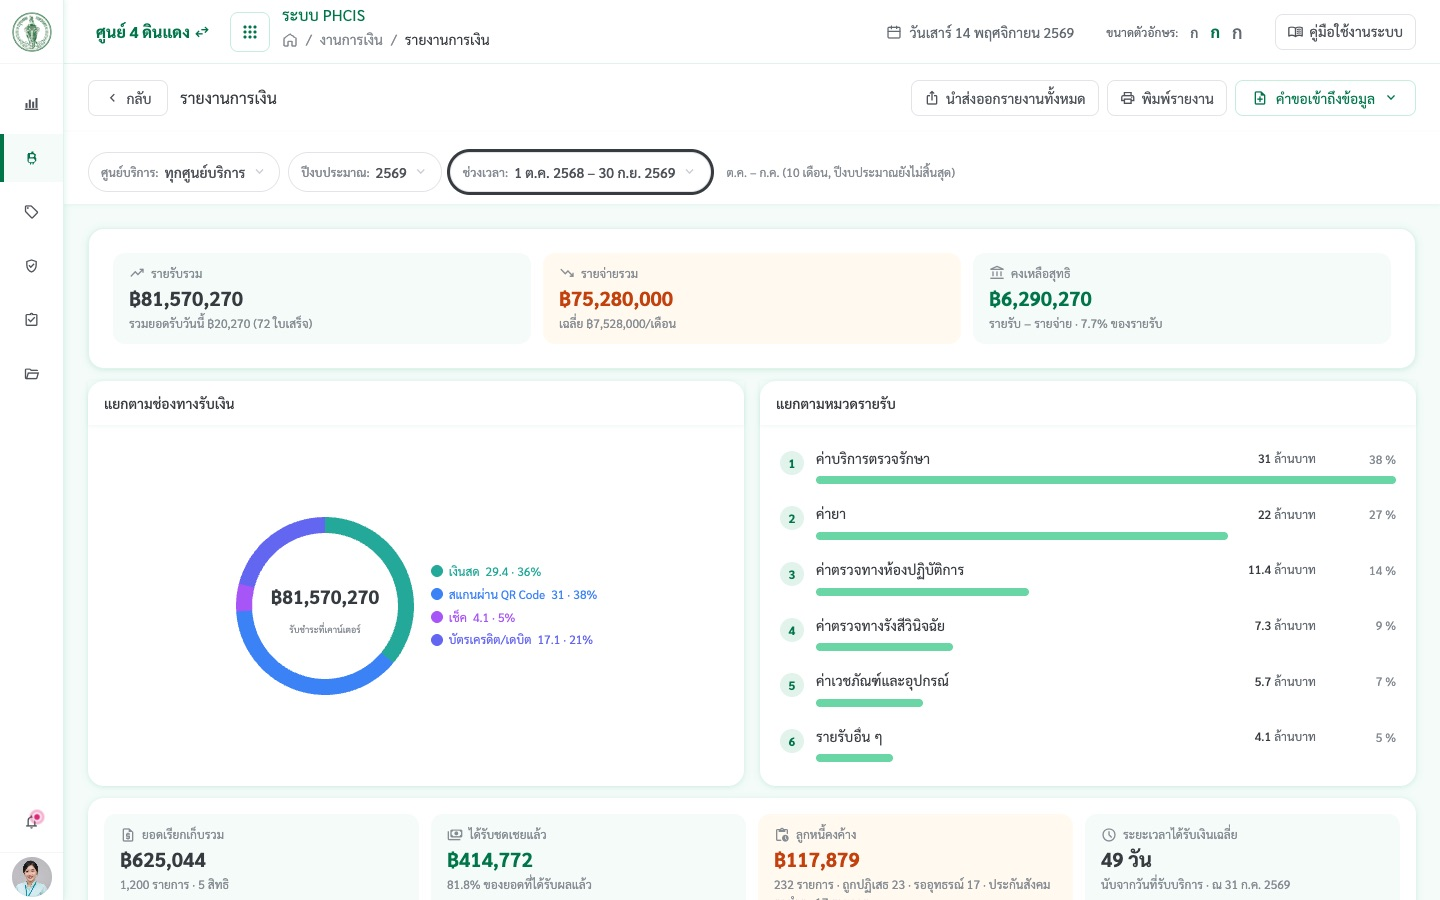
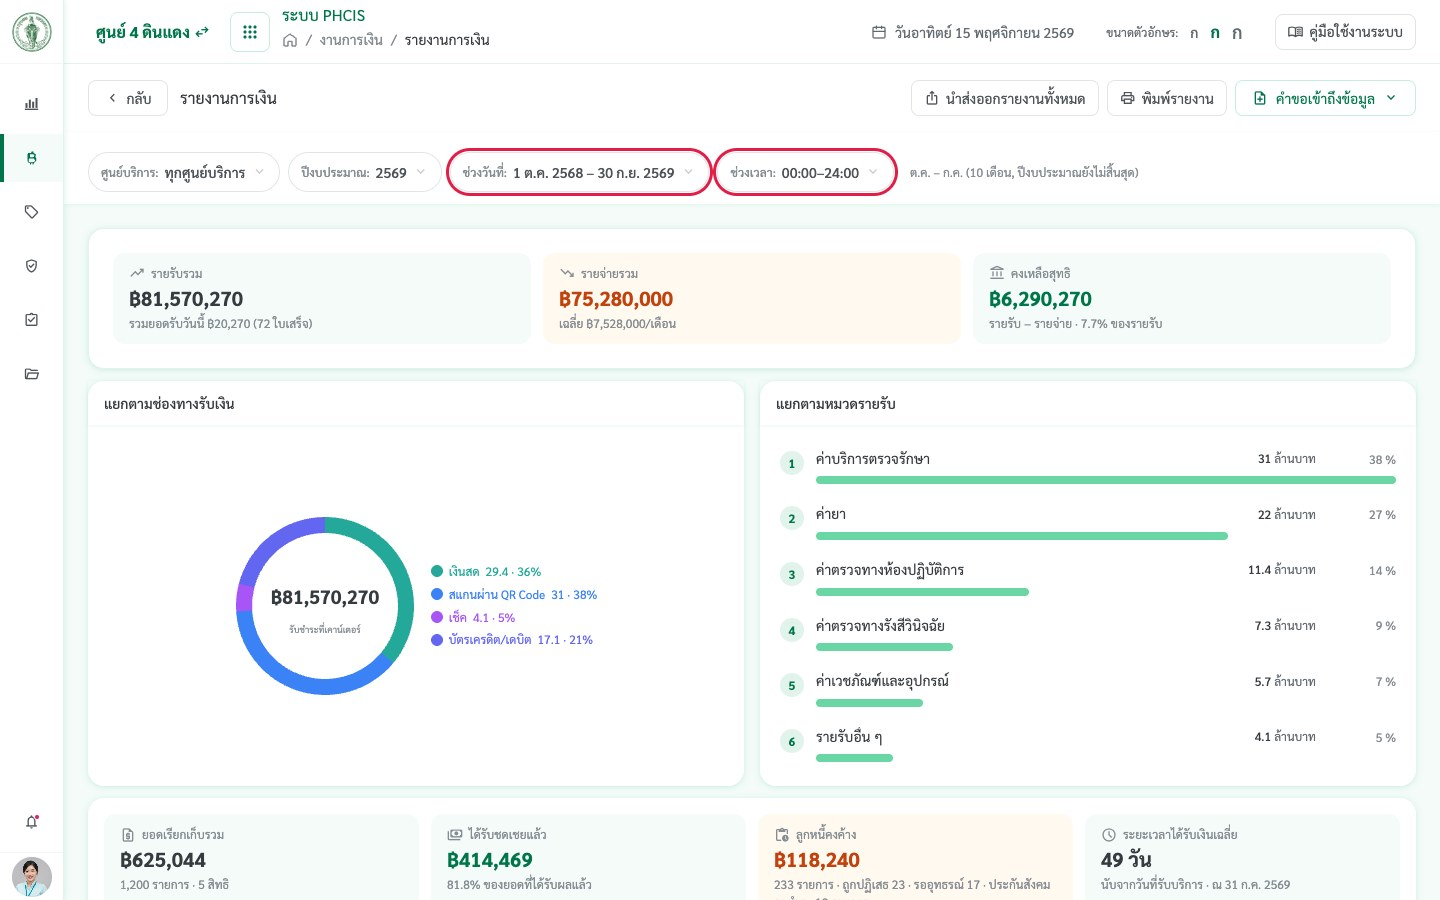
การเงิน ข้อ 13: ภาพใหม่ ชิป ช่วงวันที่ + ช่วงเวลา วงแดง · ข้อความตามที่แก้ 15 พ.ย. 69

diff --git a/tor-k9-addiction.html b/tor-k9-addiction.html
@@ -110,7 +110,7 @@
   <div class="card" id="fin-10"><div class="head"><div><h2>ข้อ 10 · ใบสรุปการนำฝากเงิน เลือกช่วงเวลา</h2><p class="sum">คอมเมนต์ลูกค้างานการเงิน 14 พ.ย. 2569</p></div><span class="chip nw c-green">แก้แล้ว · ทดสอบแล้ว</span></div><hr><dl class="kv"><dt>ระบบที่แก้</dt><dd>เว็บ PHCIS · การเงิน › พิมพ์ใบสรุปการนำฝาก</dd><dt>Kiosk (น้องดูแล)</dt><dd>—</dd></dl><hr><p class="gh">ข้อความลูกค้า</p><blockquote>ใบสรุปการนำฝากเงิน เพิ่มเลือกช่วงเวลา</blockquote><hr><p class="gh">แก้อะไร</p><p>ป๊อปอัปก่อนพิมพ์มี &quot;ตั้งแต่เวลา&quot; · &quot;ถึงเวลา&quot; (ค่าตั้งต้น 16:00 – 15:59) ต่อจากวันที่นำฝาก · &quot;รอบที่พิมพ์&quot; และหัวใบนำฝากแสดงวัน + เวลาตามที่เลือก</p><hr><p class="gh">ดูยังไง</p><ol class="steps"><li>เข้าระบบเป็น &quot;ฝ่ายการเงิน&quot; (เลือกบทบาทจากเมนูสลับบทบาท)</li><li>เมนู &quot;การเงิน&quot; (/finance) → &quot;พิมพ์ ▾&quot; → &quot;พิมพ์ใบสรุปการนำฝากเงิน&quot;</li><li>เลือกวันที่ + เวลา → &quot;พิมพ์&quot;</li></ol><hr><div class="shots"><figure><img src="tor-shots/finance-2569-11-14/c10a-deposit-time.jpg" alt="เลือกช่วงวันที่ + ช่วงเวลา" loading="lazy"><figcaption>เลือกช่วงวันที่ + ช่วงเวลา</figcaption></figure><figure><img src="tor-shots/finance-2569-11-14/c10b-deposit-print.jpg" alt="หัวใบนำฝากตามช่วงที่เลือก" loading="lazy"><figcaption>หัวใบนำฝากตามช่วงที่เลือก</figcaption></figure></div></div>
   <div class="card" id="fin-11"><div class="head"><div><h2>ข้อ 11 · รายการยาที่แพทย์สั่ง ลงชื่อแพทย์ + เลข ว.</h2><p class="sum">คอมเมนต์ลูกค้างานการเงิน 14 พ.ย. 2569</p></div><span class="chip nw c-orange">แก้แล้ว · ทดสอบแล้ว · เลข ว. เป็นข้อมูลตัวอย่าง</span></div><hr><dl class="kv"><dt>ระบบที่แก้</dt><dd>เว็บ PHCIS · การเงิน › พิมพ์ใบส่งเบิกประกันสังคม</dd><dt>Kiosk (น้องดูแล)</dt><dd>—</dd></dl><hr><p class="gh">ข้อความลูกค้า</p><blockquote>รายการยาที่แพทย์สั่ง ในรายงาน เปลี่ยนจากผู้รายงาน ให้ขึ้นชื่อแพทย์ที่สั่ง และให้มีเลข ว</blockquote><hr><p class="gh">แก้อะไร</p><p>ใบ &quot;รายการยาที่แพทย์สั่งจ่าย&quot; ลงชื่อ &quot;แพทย์ผู้สั่ง&quot; + ชื่อแพทย์ + &quot;เลขที่ใบอนุญาตประกอบวิชาชีพเวชกรรม ว.…&quot; แทน &quot;ผู้รายงาน&quot; · ช่อง &quot;แพทย์ผู้สั่ง&quot; บนหัวกระดาษมีชื่อแล้ว (เดิมว่าง) · เลข ว. รอทะเบียนบุคลากรจริง</p><hr><p class="gh">ดูยังไง</p><ol class="steps"><li>เข้าระบบเป็น &quot;ฝ่ายการเงิน&quot; (เลือกบทบาทจากเมนูสลับบทบาท)</li><li>เมนู &quot;การเงิน&quot; (/finance) → &quot;พิมพ์ ▾&quot; → &quot;พิมพ์ใบส่งเบิกประกันสังคม&quot;</li><li>เลือก &quot;ตากสิน&quot; → แถวแรกกด &quot;พิมพ์รายการยาที่แพทย์สั่งจ่าย&quot; (ตัวอย่าง HN 67-00006)</li></ol><hr><div class="shots"><figure><img src="tor-shots/finance-2569-11-14/c11-drug-list.jpg" alt="ชื่อแพทย์ผู้สั่ง + เลข ว." loading="lazy"><figcaption>ชื่อแพทย์ผู้สั่ง + เลข ว.</figcaption></figure></div></div>
   <div class="card" id="fin-12"><div class="head"><div><h2>ข้อ 12 · บันทึกรับเงินจากหน่วยงาน เพิ่ม 4 แหล่ง · บันทึกย้อนหลัง</h2><p class="sum">คอมเมนต์ลูกค้างานการเงิน 14 พ.ย. 2569</p></div><span class="chip nw c-green">แก้แล้ว · ทดสอบแล้ว</span></div><hr><dl class="kv"><dt>ระบบที่แก้</dt><dd>เว็บ PHCIS · การเงิน › REP / Statement</dd><dt>Kiosk (น้องดูแล)</dt><dd>—</dd></dl><hr><p class="gh">ข้อความลูกค้า</p><blockquote>เมนู REP/Statement เมนูย่อย บันทึกรับเงินจากหน่วยงาน เพิ่มประกันสังคม (สนพ) รับเงินจากหน่วยงานต้นสังกัด (เขต) รับเงินจาก E-Donation และรับเงินจากตู้บำรุง ให้บันทึกย้อนหลังได้</blockquote><hr><p class="gh">แก้อะไร</p><p>เมนูเพิ่ม &quot;รับเงินจากประกันสังคม (สนพ.)&quot; · &quot;รับเงินจากหน่วยงานต้นสังกัด (เขต)&quot; (เลือกลูกหนี้รายตัวได้หลายราย · กรองตามโรงพยาบาล/หน่วยงาน · ยอดเงินตั้งต้น = ผลรวมรายที่เลือก — ตามไฟล์ "สรุปประเภทรายรับ-รายจ่าย.xlsx" ใน Drive งานการเงิน ข้อ 3 · 5 · ปรับ 15 พ.ย. 69) · เพิ่ม &quot;รับเงินจากสำนักงานประกันสังคม&quot; (ข้อ 4) แบบเลือกลูกหนี้รายตัว · สปสช./กรมบัญชีกลาง/กทม. เลือกเป็นเลขที่ STM แทนรอบส่งเบิก (ข้อ 2 · 9: 1 รอบมีได้หลาย STM) · ทุกหน่วยงานกรอก &quot;จำนวนเงินที่ได้รับ&quot; ตามเอกสารโอนเงิน และเห็น &quot;ผลต่างจากการเบิก = จำนวนเงินที่เรียกเก็บ − จำนวนเงินที่ได้รับ&quot; · &quot;รับเงินจาก E-Donation&quot; · &quot;รับเงินจากตู้บำรุง&quot; (ฟอร์มวันที่ · เลขที่เอกสาร · จำนวนเงิน · ผู้บริจาค/ที่มา · หมายเหตุ + ตารางที่บันทึกแล้ว) · ทุกหน่วยงานเลือกวันที่ได้รับเงินย้อนหลังได้ (ไม่เกินวันนี้) มีป้าย &quot;บันทึกย้อนหลัง&quot; · ทดสอบบันทึก E-Donation ลงวันที่ 3 พ.ย. 2569 สำเร็จ</p><hr><p class="gh">ดูยังไง</p><ol class="steps"><li>เข้าระบบเป็น &quot;ฝ่ายการเงิน&quot; (เลือกบทบาทจากเมนูสลับบทบาท)</li><li>เมนู &quot;การเงิน&quot; (/finance) → แท็บ &quot;REP / Statement&quot;</li><li>กด &quot;บันทึกรับเงินจากหน่วยงาน ▾&quot; → เลือกหน่วยงาน</li><li>สนพ. · สำนักงานประกันสังคม · ต้นสังกัด: ติ๊กลูกหนี้ → วันที่ได้รับเงิน (ย้อนหลังได้) · เลขที่เอกสารรับเงิน · จำนวนเงินที่ได้รับ → &quot;บันทึกรับเงิน (N ราย)&quot;</li><li>E-Donation · ตู้บำรุง: เลือกวันที่ย้อนหลัง · กรอกจำนวนเงิน → &quot;บันทึกรับเงิน&quot;</li></ol><hr><div class="shots"><figure><img src="tor-shots/finance-2569-11-14/c12a-rep-menu.jpg" alt="เมนู "บันทึกรับเงินจากหน่วยงาน ▾" · รายการใหม่กรอบแดง" loading="lazy"><figcaption>เมนู "บันทึกรับเงินจากหน่วยงาน ▾" · รายการใหม่กรอบแดง</figcaption></figure><figure><img src="tor-shots/finance-2569-11-14/c12c-sso.jpg" alt="รับเงินจากประกันสังคม (สนพ.) · เลือกลูกหนี้รายตัว" loading="lazy"><figcaption>รับเงินจากประกันสังคม (สนพ.) · เลือกลูกหนี้รายตัว</figcaption></figure><figure><img src="tor-shots/finance-2569-11-14/c12g-sso-office.jpg" alt="รับเงินจากสำนักงานประกันสังคม · เลือกลูกหนี้รายตัว" loading="lazy"><figcaption>รับเงินจากสำนักงานประกันสังคม · เลือกลูกหนี้รายตัว</figcaption></figure><figure><img src="tor-shots/finance-2569-11-14/c12e-agency.jpg" alt="รับเงินจากหน่วยงานต้นสังกัด (เขต) · เลือกลูกหนี้รายตัว" loading="lazy"><figcaption>รับเงินจากหน่วยงานต้นสังกัด (เขต) · เลือกลูกหนี้รายตัว</figcaption></figure><figure><img src="tor-shots/finance-2569-11-14/c12b-edonation.jpg" alt="รับเงินจาก E-Donation · บันทึกย้อนหลัง" loading="lazy"><figcaption>รับเงินจาก E-Donation · บันทึกย้อนหลัง</figcaption></figure><figure><img src="tor-shots/finance-2569-11-14/c12f-cabinet.jpg" alt="รับเงินจากตู้บำรุง · บันทึกย้อนหลัง" loading="lazy"><figcaption>รับเงินจากตู้บำรุง · บันทึกย้อนหลัง</figcaption></figure><figure><img src="tor-shots/finance-2569-11-14/c12h-uc-stm.jpg" alt="รับเงินจาก สปสช. · เลือกเลขที่ STM แทนรอบส่งเบิก" loading="lazy"><figcaption>รับเงินจาก สปสช. · เลือกเลขที่ STM แทนรอบส่งเบิก</figcaption></figure></div></div>
-  <div class="card" id="fin-13"><div class="head"><div><h2>ข้อ 13 · ทุกรายงาน + dashboard เลือกช่วงเวลา</h2><p class="sum">คอมเมนต์ลูกค้างานการเงิน 14 พ.ย. 2569</p></div><span class="chip nw c-orange">แก้แล้ว · ทดสอบหน้ารายงานการเงิน · dashboard ยังไม่ได้เปิดดู</span></div><hr><dl class="kv"><dt>ระบบที่แก้</dt><dd>เว็บ PHCIS · รายงานการเงิน + Dashboard การเงิน</dd><dt>Kiosk (น้องดูแล)</dt><dd>—</dd></dl><hr><p class="gh">ข้อความลูกค้า</p><blockquote>หน้ารายงานการเงินทุกรายงานรวมทั้ง dashboard ให้เลือกช่วงเวลาได้ด้วย</blockquote><hr><p class="gh">แก้อะไร</p><p>ชิป &quot;ช่วงเวลา:&quot; ใต้หัวหน้ารายงาน ทุกรายงานในหน้าตามช่วงที่เลือก (ใบเสร็จตามวันที่ออก · ข้อมูลรายเดือนตามเดือนที่ทับช่วง) · หน้า Dashboard การเงิน (/dashboard/reports/finance) ใส่ชิปเดียวกัน</p><hr><p class="gh">ดูยังไง</p><ol class="steps"><li>เข้าระบบเป็น &quot;ฝ่ายการเงิน&quot; (เลือกบทบาทจากเมนูสลับบทบาท)</li><li>เมนู &quot;การเงิน&quot; (/finance) → ปุ่ม &quot;รายงาน&quot;</li><li>กดชิป &quot;ช่วงเวลา:&quot; เลือกช่วง → ตัวเลขทุกกลุ่มเปลี่ยนตาม</li></ol><hr><div class="shots"><figure><img src="tor-shots/finance-2569-11-14/c13-reports-date.jpg" alt="ชิป &quot;ช่วงเวลา:&quot;" loading="lazy"><figcaption>ชิป &quot;ช่วงเวลา:&quot;</figcaption></figure></div></div>
+  <div class="card" id="fin-13"><div class="head"><div><h2>ข้อ 13 · ทุกรายงาน + dashboard เลือกช่วงเวลา</h2><p class="sum">คอมเมนต์ลูกค้างานการเงิน 14 พ.ย. 2569</p></div><span class="chip nw c-orange">แก้แล้ว · ทดสอบหน้ารายงานการเงิน · dashboard ยังไม่ได้เปิดดู</span></div><hr><dl class="kv"><dt>ระบบที่แก้</dt><dd>เว็บ PHCIS · รายงานการเงิน + Dashboard การเงิน</dd><dt>Kiosk (น้องดูแล)</dt><dd>—</dd></dl><hr><p class="gh">ข้อความลูกค้า</p><blockquote>หน้ารายงานการเงินทุกรายงานรวมทั้ง dashboard ให้เลือกช่วงเวลาได้ด้วย</blockquote><hr><p class="gh">แก้อะไร</p><p>ชิป &quot;ช่วงวันที่:&quot; + ชิป &quot;ช่วงเวลา: 00:00–24:00&quot; (เลือกเวลาในวัน กรองใบเสร็จตามเวลาออก · ปรับ 15 พ.ย. 69) ใต้หัวหน้ารายงาน ทุกรายงานในหน้าตามช่วงที่เลือก (ใบเสร็จตามวันที่ออก · ข้อมูลรายเดือนตามเดือนที่ทับช่วง) · หน้า Dashboard การเงิน (/dashboard/reports/finance) ใส่ชิปเดียวกัน</p><hr><p class="gh">ดูยังไง</p><ol class="steps"><li>เข้าระบบเป็น &quot;ฝ่ายการเงิน&quot; (เลือกบทบาทจากเมนูสลับบทบาท)</li><li>เมนู &quot;การเงิน&quot; (/finance) → ปุ่ม &quot;รายงาน&quot;</li><li>กดชิป &quot;ช่วงวันที่:&quot; เลือกช่วง · กดชิป &quot;ช่วงเวลา:&quot; เลือกเวลา → ตัวเลขทุกกลุ่มเปลี่ยนตาม</li></ol><hr><div class="shots"><figure><img src="tor-shots/finance-2569-11-14/c13-reports-date.jpg" alt="ชิป &quot;ช่วงวันที่:&quot; + &quot;ช่วงเวลา:&quot;" loading="lazy"><figcaption>ชิป &quot;ช่วงวันที่:&quot; + &quot;ช่วงเวลา:&quot;</figcaption></figure></div></div>
   <div class="card" id="fin-14"><div class="head"><div><h2>ข้อ 14 · ภาพรวมรายรับ-รายจ่าย ติดลบตัวแดง</h2><p class="sum">คอมเมนต์ลูกค้างานการเงิน 14 พ.ย. 2569</p></div><span class="chip nw c-green">แก้แล้ว · ทดสอบแล้ว</span></div><hr><dl class="kv"><dt>ระบบที่แก้</dt><dd>เว็บ PHCIS · รายงานการเงิน</dd><dt>Kiosk (น้องดูแล)</dt><dd>—</dd></dl><hr><p class="gh">ข้อความลูกค้า</p><blockquote>ภาพรวมรายรับ-รายจ่าย ถ้าติดลบให้เป็นตัวหนังสือสีแดง</blockquote><hr><p class="gh">แก้อะไร</p><p>ตาราง &quot;รายรับ รายจ่าย และคงเหลือรายเดือน&quot; (ใหม่) + การ์ดคงเหลือ + ไฟล์ส่งออก: ยอดติดลบเป็นตัวแดงมีเครื่องหมายลบ · ข้อมูลตัวอย่างเดือน ธ.ค. ติดลบให้เห็น</p><hr><p class="gh">ดูยังไง</p><ol class="steps"><li>เข้าระบบเป็น &quot;ฝ่ายการเงิน&quot; (เลือกบทบาทจากเมนูสลับบทบาท)</li><li>เมนู &quot;การเงิน&quot; (/finance) → ปุ่ม &quot;รายงาน&quot;</li><li>เลื่อนถึง &quot;รายรับ รายจ่าย และคงเหลือรายเดือน&quot; → แถว ธ.ค.</li></ol><hr><div class="shots"><figure><img src="tor-shots/finance-2569-11-14/c14-overview-negative.jpg" alt="คงเหลือ ธ.ค. -฿490,000 ตัวแดง" loading="lazy"><figcaption>คงเหลือ ธ.ค. -฿490,000 ตัวแดง</figcaption></figure></div></div>
   <div class="card" id="fin-15"><div class="head"><div><h2>ข้อ 15 · เลือกจำนวนรายการต่อหน้า 20 / 50 / 100</h2><p class="sum">คอมเมนต์ลูกค้างานการเงิน 14 พ.ย. 2569</p></div><span class="chip nw c-green">แก้แล้ว · ทดสอบแล้ว</span></div><hr><dl class="kv"><dt>ระบบที่แก้</dt><dd>เว็บ PHCIS · ทุกตารางในหน้าการเงิน (ชิ้นกลาง Table)</dd><dt>Kiosk (น้องดูแล)</dt><dd>—</dd></dl><hr><p class="gh">ข้อความลูกค้า</p><blockquote>การแสดงจำนวนรายการ ต้องการให้มีตัวเลือกเพิ่มเติม (ต้องการดูรายการมากกว่า 20 คนต่อหน้า) เช่น  20 ราย / 50 ราย / 100 ราย</blockquote><hr><p class="gh">แก้อะไร</p><p>แถบเลขหน้าของทุกตารางในหน้าการเงินมีช่อง &quot;แสดงหน้าละ&quot; 20 / 50 / 100 รายการ (ทำเป็นชิ้นกลางของตาราง ใช้หน้าอื่นได้)</p><hr><p class="gh">ดูยังไง</p><ol class="steps"><li>เข้าระบบเป็น &quot;ฝ่ายการเงิน&quot; (เลือกบทบาทจากเมนูสลับบทบาท)</li><li>เมนู &quot;การเงิน&quot; (/finance) → แท็บใดก็ได้ เลื่อนลงท้ายตาราง</li><li>ช่อง &quot;แสดงหน้าละ&quot; เลือก 50 หรือ 100</li></ol><hr><div class="shots"><figure><img src="tor-shots/finance-2569-11-14/c15-pagesize.jpg" alt="ช่อง &quot;แสดงหน้าละ&quot;" loading="lazy"><figcaption>ช่อง &quot;แสดงหน้าละ&quot;</figcaption></figure></div></div>
   <div class="card" id="fin-16"><div class="head"><div><h2>ข้อ 16 · เปลี่ยนชื่อเมนู คิวชำระเงิน</h2><p class="sum">คอมเมนต์ลูกค้างานการเงิน 14 พ.ย. 2569</p></div><span class="chip nw c-green">แก้แล้ว · ทดสอบแล้ว</span></div><hr><dl class="kv"><dt>ระบบที่แก้</dt><dd>เว็บ PHCIS · ชื่อแท็บการเงิน</dd><dt>Kiosk (น้องดูแล)</dt><dd>ป้ายจุดบริการบนจอทีวีคิว/บัตรคิวยังเป็น &quot;คิวชำระเงิน&quot; (ลูกค้าพูดถึงชื่อเมนู ไม่ได้เปลี่ยนป้าย)</dd></dl><hr><p class="gh">ข้อความลูกค้า</p><blockquote>เปลี่ยนชื่อเมนู คิวชำระเงิน เป็น ลำดับคิว ชำระเงิน/ปิดสิทธิ</blockquote><hr><p class="gh">แก้อะไร</p><p>แท็บแรกชื่อ &quot;ลำดับคิว ชำระเงิน/ปิดสิทธิ&quot;</p><hr><p class="gh">ดูยังไง</p><ol class="steps"><li>เข้าระบบเป็น &quot;ฝ่ายการเงิน&quot; (เลือกบทบาทจากเมนูสลับบทบาท)</li><li>เมนู &quot;การเงิน&quot; (/finance)</li></ol><hr><div class="shots"><figure><img src="tor-shots/finance-2569-11-14/c16-tabs.jpg" alt="แท็บแรก &quot;ลำดับคิว ชำระเงิน/ปิดสิทธิ&quot;" loading="lazy"><figcaption>แท็บแรก &quot;ลำดับคิว ชำระเงิน/ปิดสิทธิ&quot;</figcaption></figure></div></div>
